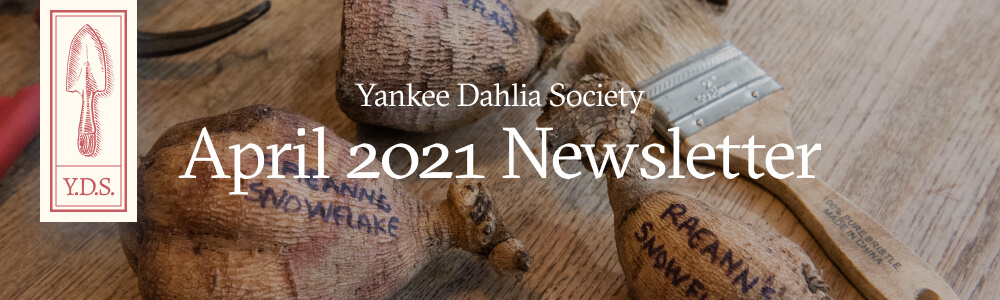
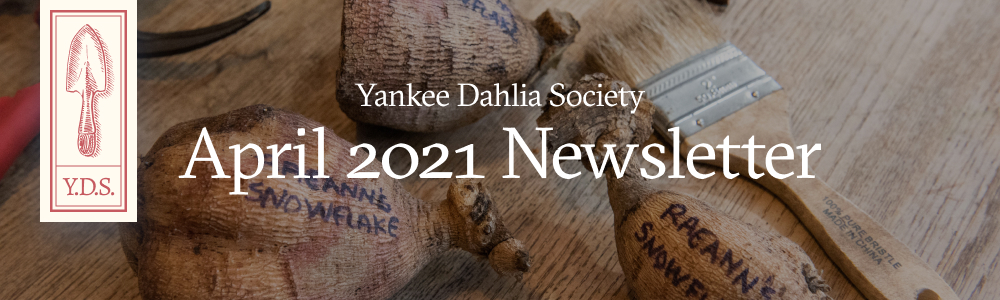
update preheader and darken header image

diff --git a/202104/202104_Newsletter.html b/202104/202104_Newsletter.html
@@ -213,7 +213,10 @@
                     mc:edit="preheader_leftcol_content"
                     class="preheader__text"
                   >
-                    <p>Welcome new members, details about our first meeting</p>
+                    <p>
+                      Welcome new members, details about our first meeting and
+                      more
+                    </p>
                   </div>
                 </td>
                 <td>
